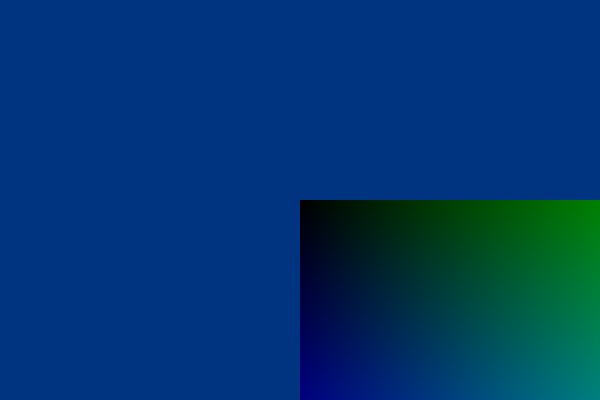
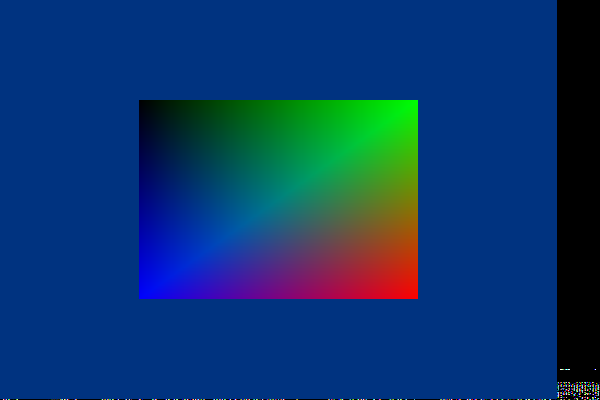
prog

diff --git a/src/gfx.c b/src/gfx.c
@@ -71,7 +71,7 @@ static GLFWwindow* start(int width, int height, const char* title) {
 	glfwWindowHint(GLFW_CONTEXT_VERSION_MAJOR, 4);
 	glfwWindowHint(GLFW_CONTEXT_VERSION_MINOR, 1);
 	glfwWindowHint(GLFW_OPENGL_PROFILE, GLFW_OPENGL_CORE_PROFILE);
-	glfwWindowHint(GLFW_VISIBLE, GLFW_FALSE);
+	// glfwWindowHint(GLFW_VISIBLE, GLFW_FALSE);
 #ifdef __APPLE__
 	glfwWindowHint(GLFW_OPENGL_FORWARD_COMPAT, GLFW_TRUE);
 #endif
@@ -148,14 +148,17 @@ static void setup_vertex_objects(
 }
 
 void draw(GLFWwindow* win, GLuint shader_prog, GLuint vao) {
-	glClearColor(0.0, 0.2, 0.5, 1.0);
-	glClear(GL_COLOR_BUFFER_BIT);
+	while (!glfwWindowShouldClose(win)) {
+		glClearColor(0.0, 0.2, 0.5, 1.0);
+		glClear(GL_COLOR_BUFFER_BIT);
 
-	glUseProgram(shader_prog);
-	glBindVertexArray(vao);
-	glDrawElements(GL_TRIANGLES, sizeof(indices) / sizeof(GLuint), GL_UNSIGNED_INT, 0);
+		glUseProgram(shader_prog);
+		glBindVertexArray(vao);
+		glDrawElements(GL_TRIANGLES, sizeof(indices) / sizeof(GLuint), GL_UNSIGNED_INT, 0);
 
-	glfwSwapBuffers(win);
+		glfwPollEvents();
+		glfwSwapBuffers(win);
+	}
 }
 
 void export(const char* filename) {
